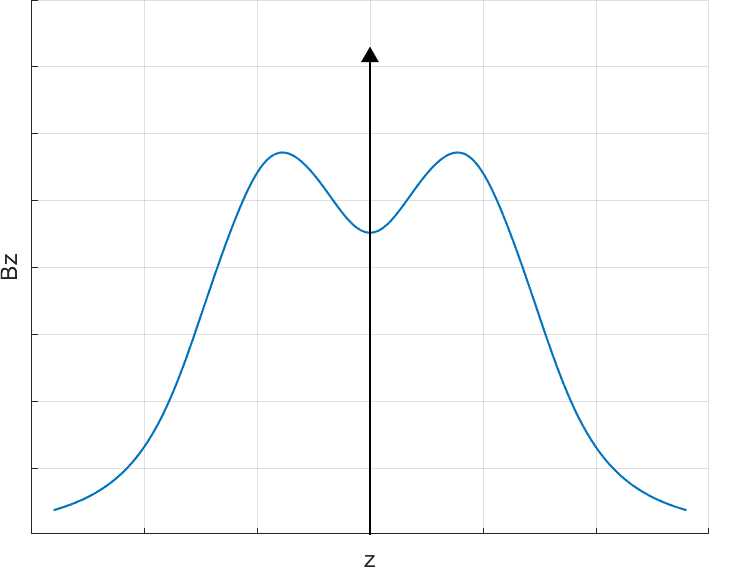
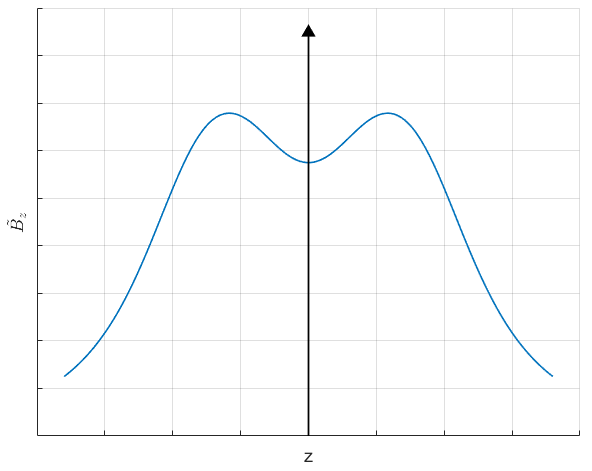
ehi mama guarda come mi divertoo (oh yeeeah)

diff --git a/relazione.tex b/relazione.tex
@@ -40,11 +40,6 @@ valutato sull’asse utilizzando la legge di Biot-Savart. La legge di Biot-Savar
 ci permette di valutare il campo magnetico B prodotto in un punto dello spazio
 da una spira percorsa da corrente elettrica.
 
-\begin{figure}[H]
-	\centering
-	\includegraphics[width=10cm]{assets/figure2}
-	\caption{Schema di una spira concentrica all'asse $z$.}
-\end{figure}
 
 \noindent
 Il campo magnetico sull’asse $z$  di una spira caratterizzata da una corrente
@@ -109,6 +104,7 @@ norma unitaria. Possiamo normalizzare rispetto al rapporto $\frac{\mu_{0}}{2}$,
 
 % su cosa cazzo normalizziamo?  
 \section*{Analisi dei parametri}
+
 
 Per avvicinarci quando più possibile all'andamento della funzione descritta
 dalla $Fig.3$, dobbiamo modellare i dati della funzione di campo magnetico ideale.

diff --git a/coils/functionToApproximate.m b/coils/functionToApproximate.m
@@ -5,9 +5,9 @@ clc
 % coil radius [m]
 R = [0.7 0.8 0.6];
 % coil current [A]
-I = [0.3 0.5 0.2];
+I = [3 5 2];
 % coil position on the z axis [m]
-Z = [0.4 0.9 1.4];
+Z = [0.4 0.7 0.9];
 
 % the actual script
 maxZ = max(Z)*2; % evaluate until 2 times the position of the last coil
@@ -26,7 +26,7 @@ plot(x, y, 'color', 'k', 'lineWidth', 1);
 plot(0, y(2), '^', 'color', 'k', 'lineWidth', 1, 'MarkerFaceColor', 'k')
 
 % title('Magnetic field for N symmetric coils given Z, R and I')
-ylabel('Bz')
+ylabel('$\tilde{B_{z}}$','Interpreter','latex')
 xlabel('z')
 set(gca, 'xticklabel', []);
 set(gca, 'yticklabel', []);
